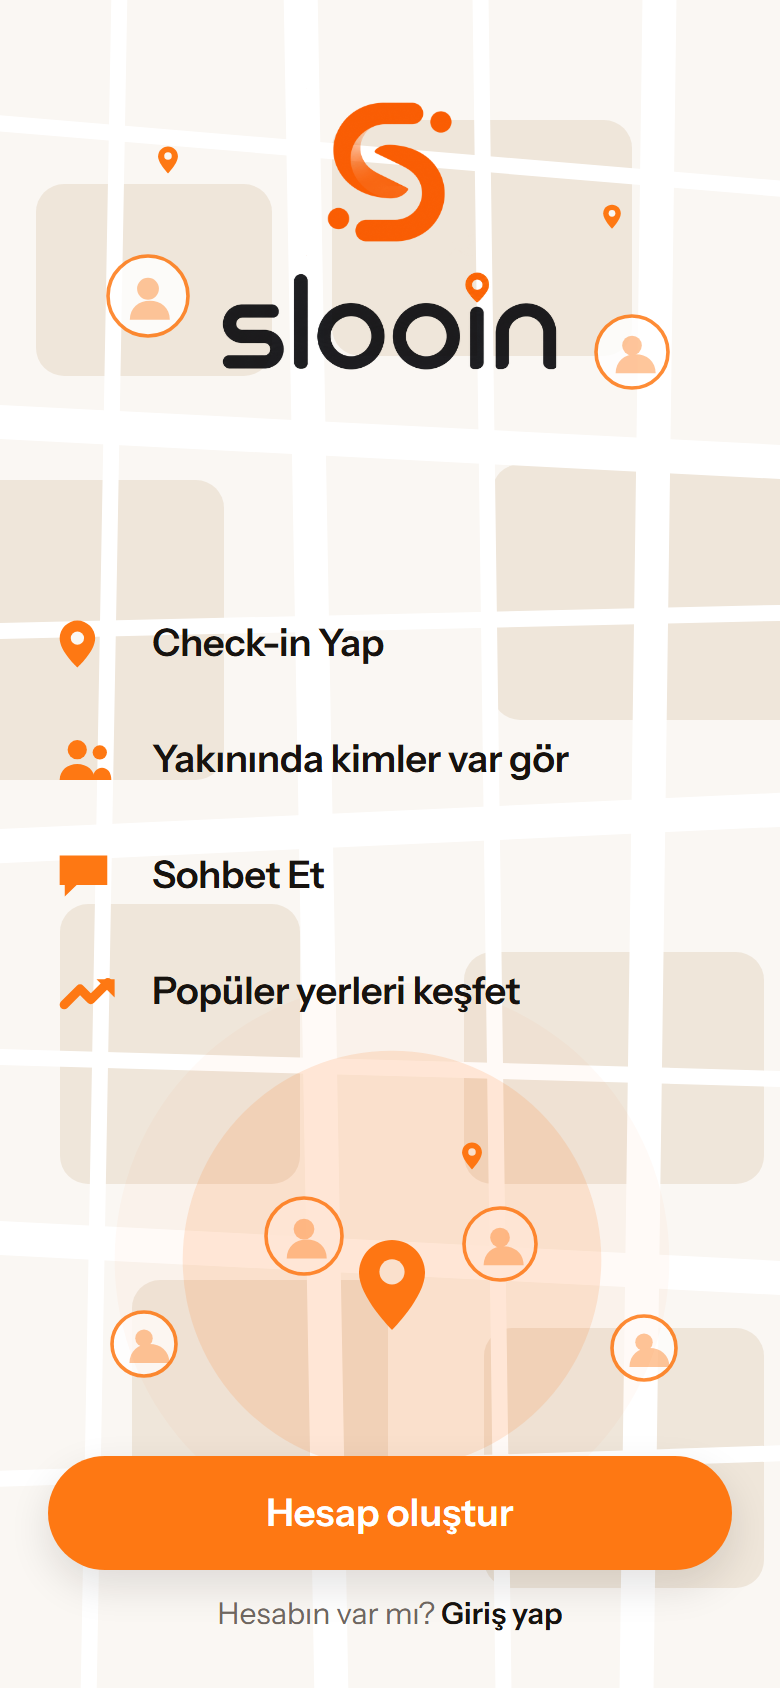
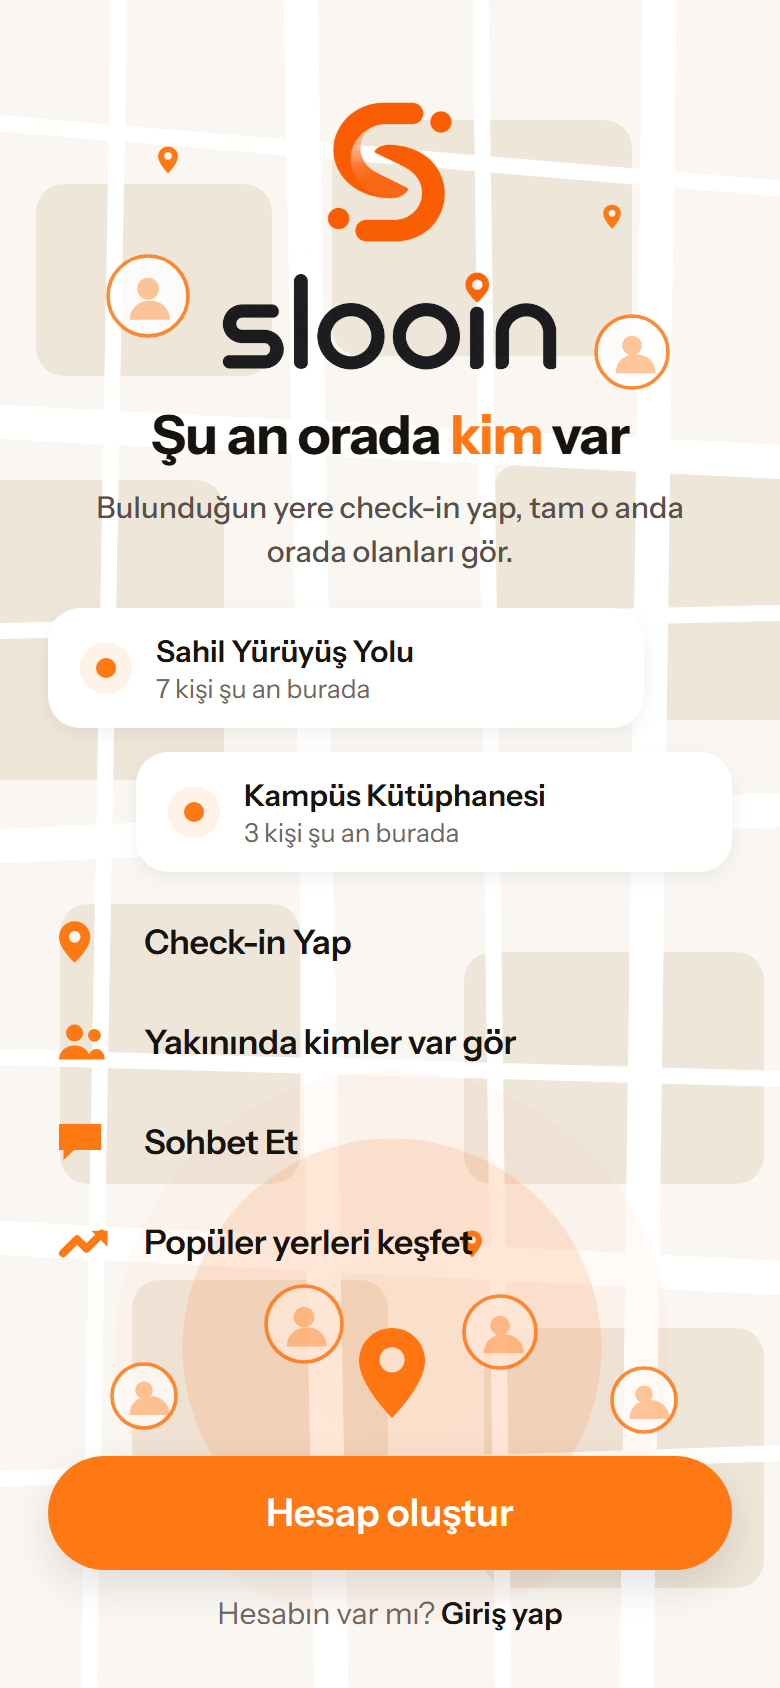
feat(tasarim): acilis ekranina slogan ve ornek check-in kartlari eklendi
Kullanici acilis ekraninin bos kaldigini soyledi; uc oneri uygulanip
gorsel olarak sunuldu, A + B secildi. Slogan metnini kullanici verdi:
"su an orada kim var".

- SLOGAN GERI GELDI. 2026-08-25'te kaldirilmisti, cunku o gun ozellik
  satirlarinin altinda aciklamalar duruyordu ve slogan onlarin
  soyledigini tekrar ediyordu. Aciklamalar 2026-08-26'da kalkinca
  ekranin ust yarisi bosaldi ve cumlenin yeri acildi.
- ORNEK CHECK-IN KARTLARI: haritanin uzerinde yuzen iki kart,
  turuncu canlilik noktasi + "7 kisi su an burada". Uygulamayi
  anlatmak yerine gosteriyor. Sayilar ve mekan adlari ORNEK - giris
  oncesi gercek veri gosterilemez, tr.ts'te de boyle notlandi.
- Tanitim satirlari kuculdu: baslik 19 -> 17, ikonlar 34 -> 30,
  ikon sutunu 40 -> 36 (kullanicinin istegi).
- KROKININ ALT KUMESI ASAGI ALINDI. Icerik uzayinca son satir
  ("Populer yerleri kesfet") krokideki insan ikonlarinin uzerine
  biniyor ve okunmuyordu. Nabiz merkezi 630 -> 674, alttaki dort
  ikon ~44 birim asagi; yandaki ikisi butonun altina girmesin diye
  698/700'de durduruldu.

Testler: ekran testleri 25 paket / 242 test yesil, tsc temiz.

Changed region(s): [[0.0615, 0.3389, 0.8923, 0.8626], [0.1231, 0.2464, 0.8615, 0.3389], [0.0615, 0.4929, 0.1538, 0.7393]]

diff --git a/mobil/src/app/(auth)/karsilama.tsx b/mobil/src/app/(auth)/karsilama.tsx
@@ -91,7 +91,7 @@ function OzellikIkonu({ ad }: { ad: 'konum' | 'kisiler' | 'sohbet' | 'yogunluk' 
   const donusum = `translate(${HIZA - olcek * sol} ${MERKEZ - olcek * merkez}) scale(${olcek})`
   return (
     <View style={stiller.ikonAlani}>
-      <Svg width={34} height={34} viewBox="0 0 24 24">
+      <Svg width={30} height={30} viewBox="0 0 24 24">
         <G transform={donusum}>
         {ad === 'konum' && (
           <>
@@ -169,9 +169,17 @@ export default function KarsilamaEkrani() {
         <MarkaIsareti zemin="acik" boyut={84} />
         <MarkaYazisi genislik={168} style={stiller.markaYazisi} />
 
-        {/* Slogan ve altindaki paragraf KALDIRILDI (kullanicinin karari,
-            2026-08-25). Uygulamayi anlatan tek yer asagidaki ozellik
-            listesi; slogan onun soyledigini bir kez daha soyluyordu. */}
+        {/* Slogan 2026-08-25'te kaldirilmisti, 2026-08-26'da GERI
+            GELDI: o gun aciklama satirlari da duruyordu ve slogan
+            onlarin soyledigini tekrar ediyordu. Aciklamalar kalkinca
+            ekranin ust yarisi bosaldi ve cumlenin yeri acildi.
+            Metni kullanici verdi: "su an orada kim var". */}
+        <Text style={stiller.vaat}>
+          {t('karsilama.vaatOnce')}
+          <Text style={stiller.vaatVurgu}>{t('karsilama.vaatVurgu')}</Text>
+          {t('karsilama.vaatSonra')}
+        </Text>
+        <Text style={stiller.vaatAlt}>{t('karsilama.vaatAlt')}</Text>
       </View>
 
       {/* Uygulamanin ne yaptigini anlatan tek yer: ikon + tek satirlik
@@ -180,6 +188,28 @@ export default function KarsilamaEkrani() {
           ORTALANDI - artik sola dayali bir liste degil, ortada duran
           dort satir. */}
       <View style={stiller.ustBosluk} />
+
+      {/* Uygulamayi ANLATMAK yerine GOSTEREN parca: haritanin uzerinde
+          yuzen iki ornek check-in karti. Sayilar ve mekan adlari ornek
+          - gercek veri gosterilemez, kullanici henuz giris yapmadi. */}
+      <View style={stiller.ornekKartlar}>
+        {[1, 2].map((n) => (
+          <View
+            key={n}
+            style={[stiller.ornekKart, n === 1 ? stiller.ornekKartSol : stiller.ornekKartSag]}
+          >
+            <View style={stiller.nabizHalka}>
+              <View style={stiller.nabizNokta} />
+            </View>
+            <View style={stiller.ornekMetin}>
+              <Text style={stiller.ornekAd}>{t(`karsilama.ornek${n}Ad`)}</Text>
+              <Text style={stiller.ornekAlt}>{t(`karsilama.ornek${n}Alt`)}</Text>
+            </View>
+          </View>
+        ))}
+      </View>
+
+      <View style={stiller.ortaBosluk} />
 
       <View style={stiller.adimlar}>
         {OZELLIKLER.map(({ no, ikon }) => (
@@ -227,6 +257,58 @@ const stiller = StyleSheet.create({
   },
 
   markaYazisi: { marginTop: bosluk.s },
+  vaat: {
+    fontFamily: yazi.ekranBasligi,
+    fontSize: 27,
+    lineHeight: 34,
+    color: renk.metin,
+    letterSpacing: -0.5,
+    textAlign: 'center',
+    marginTop: bosluk.l,
+  },
+  vaatVurgu: { color: renk.turuncu },
+  vaatAlt: {
+    fontFamily: yazi.govdeOrta,
+    fontSize: olcek.govde,
+    lineHeight: 22,
+    color: '#57504A',
+    textAlign: 'center',
+    marginTop: bosluk.s,
+    paddingHorizontal: bosluk.m,
+  },
+
+  ornekKartlar: { gap: bosluk.m },
+  ornekKart: {
+    flexDirection: 'row',
+    alignItems: 'center',
+    gap: bosluk.m,
+    backgroundColor: renk.yuzey,
+    borderRadius: yuvarlak.kart,
+    paddingVertical: bosluk.m,
+    paddingHorizontal: bosluk.l,
+    ...golge.kart,
+  },
+  // Kartlar birbirine gore kaydirilmis: harita uzerinde dizilmis degil,
+  // yuzuyor gibi dursunlar.
+  ornekKartSol: { marginRight: bosluk.xxl + bosluk.m },
+  ornekKartSag: { marginLeft: bosluk.xxl + bosluk.m },
+  ornekMetin: { flex: 1 },
+  nabizHalka: {
+    width: 26,
+    height: 26,
+    borderRadius: 13,
+    backgroundColor: renk.turuncuZemin,
+    alignItems: 'center',
+    justifyContent: 'center',
+  },
+  nabizNokta: { width: 10, height: 10, borderRadius: 5, backgroundColor: renk.turuncu },
+  ornekAd: { fontFamily: yazi.govdeKalin, fontSize: olcek.govde, color: renk.metin },
+  ornekAlt: {
+    fontFamily: yazi.govde,
+    fontSize: olcek.kucuk,
+    color: renk.metinIkincil,
+    marginTop: 1,
+  },
 
   adimlar: {
     // Blok, marka kilidi ile butonlarin ARASINA ortalaniyor: ustunde ve
@@ -238,7 +320,7 @@ const stiller = StyleSheet.create({
     // tuttugu sey kalmadi - dort kisa baslik ortada daha dengeli
     // duruyor.
     marginTop: 0,
-    gap: bosluk.xl,
+    gap: 20,
     // Blok en genis satiri kadar genis ve EKRANA ORTALI; satirlar
     // blogun icinde sola dayali. Kullanicinin karari (2026-08-26):
     // "basliklar onceki gibi orantili alt alta olmali". Her satiri tek
@@ -255,13 +337,14 @@ const stiller = StyleSheet.create({
   adim: { flexDirection: 'row', alignItems: 'center', gap: bosluk.m },
   // Sabit genislik: ikonlarin genisligi farkli, sutun bundan
   // kaymasin. Basliklar da bu yuzden ayni noktadan basliyor.
-  ikonAlani: { width: 40, alignItems: 'center', justifyContent: 'center' },
+  ikonAlani: { width: 36, alignItems: 'center', justifyContent: 'center' },
   adimBaslik: {
     // Bir kademe INCE (700 -> 600): kullanicinin istegi "cok az incelt
-    // ama yine belirgin olsun". Punto ve renk degismedi, yalnizca
-    // agirlik.
+    // ama yine belirgin olsun". Punto sonra ayrica bir tik kucultuldu
+    // (19 -> 17, "tanitim yazilarini biraz kucult"); ikonlar da 34 ->
+    // 30 ile birlikte indi ki oran bozulmasin.
     fontFamily: yazi.govdeKalin,
-    fontSize: olcek.altBaslik,
+    fontSize: 17,
     color: renk.metin,
     letterSpacing: -0.2,
   },
@@ -288,8 +371,12 @@ const stiller = StyleSheet.create({
   // Blok ortadan biraz YUKARIDA duruyor (kullanicinin karari
   // 2026-08-26: "biraz yukariya"). Ustteki bosluk alttakinden kucuk;
   // 1 / 1 tam ortaliyordu.
-  ustBosluk: { flex: 0.75 },
-  esnekBosluk: { flex: 1.25 },
+  // Icerik krokinin ALT KALABALIGINA duesmemeli: haritanin dibindeki
+  // insan baloncuklari ve nabiz halkasi metnin altina girip okumayi
+  // bozuyor. Bu yuzden ust bosluklar kucuk, alt bosluk buyuk.
+  ustBosluk: { flex: 0.3 },
+  ortaBosluk: { flex: 0.35 },
+  esnekBosluk: { flex: 1.35 },
   tik: { color: '#FFFFFF', fontSize: 14, lineHeight: 18, fontFamily: yazi.govdeKalin },
 
   birincil: {

diff --git a/mobil/src/tasarim/KrokiZemin.tsx b/mobil/src/tasarim/KrokiZemin.tsx
@@ -32,7 +32,11 @@ const BOY = 844
 /** Halkalarin ve ignenin merkezi - icerigin bos seridi. */
 // Nabiz, tanitim blogunun BITTIGI nokta ile 'Hesap olustur' butonunun
 // ortasinda duruyor (kullanicinin istegi 2026-08-25).
-const MERKEZ = { x: 196, y: 630 }
+// Nabzin merkezi. 2026-08-26'da 630'dan 674'e INDIRILDI: acilis
+// ekranina slogan ve ornek check-in kartlari eklenince ozellik
+// listesi asagi kaydi ve son satir ("Populer yerleri kesfet") alttaki
+// insan ikonlarinin uzerine biniyordu.
+const MERKEZ = { x: 196, y: 674 }
 
 /**
  * Insan ikonlari. Konumlar rastgele degil: hicbiri metnin uzerine
@@ -47,10 +51,13 @@ const KISILER = [
   // Alt bant: nabzin cevresi, yatayda esit araliklarla. Ustteki ikisi
   // once daha yukaridaydi ve son ozellik satirinin uzerine biniyordu;
   // asagi cekildi. Butonun altina denk gelen ikon da kaldirildi.
-  { x: 152, y: 618, r: 19 },
-  { x: 250, y: 622, r: 18 },
-  { x: 72, y: 672, r: 16 },
-  { x: 322, y: 674, r: 16 },
+  // Dordu de 2026-08-26'da ~44 birim asagi alindi; gerekcesi MERKEZ
+  // tanimindaki notta.
+  { x: 152, y: 662, r: 19 },
+  { x: 250, y: 666, r: 18 },
+  // Yandaki ikisi butonun altina girmesin diye 698/700'de duruyor.
+  { x: 72, y: 698, r: 16 },
+  { x: 322, y: 700, r: 16 },
 ]
 
 // Kenar payi: 'slice' olceklemesinde tuvalin yanlari kirpilabiliyor.
@@ -61,7 +68,7 @@ const KISILER = [
 const IGNELER = [
   { x: 84, y: 84, olcek: 0.45 },
   { x: 306, y: 112, olcek: 0.4 },
-  { x: 236, y: 582, olcek: 0.45 },
+  { x: 236, y: 626, olcek: 0.45 },
 ]
 
 const HALKA_SURESI = 2800

diff --git a/mobil/lib/ceviriler/tr.ts b/mobil/lib/ceviriler/tr.ts
@@ -25,6 +25,22 @@ export default {
     aciklama:
       'Bulunduğun yere check-in yap, tam o anda orada olan başka insanları gör. Konum paylaşımı check-in yaptığın süreyle sınırlı.',
     dilEtiket: 'Dil',
+
+    // Slogan UC PARCA: ortadaki kelime turuncu yaziliyor. Ceviride
+    // parcalarin sirasi korunmali; vurgulu kelime dilin dogal
+    // vurgusuna gore degisebilir.
+    vaatOnce: 'Şu an orada ',
+    vaatVurgu: 'kim',
+    vaatSonra: ' var',
+    vaatAlt: 'Bulunduğun yere check-in yap, tam o anda orada olanları gör.',
+
+    // Acilistaki ornek check-in kartlari. GERCEK VERI DEGIL: kullanici
+    // henuz giris yapmamis ve kimin nerede oldugu giris oncesi
+    // gosterilemez. Mekan adlari da bilerek jenerik.
+    ornek1Ad: 'Sahil Yürüyüş Yolu',
+    ornek1Alt: '7 kişi şu an burada',
+    ornek2Ad: 'Kampüs Kütüphanesi',
+    ornek2Alt: '3 kişi şu an burada',
     // Dort ozellik, YALNIZCA BASLIK. Basliklarin altindaki aciklama
     // satirlari kullanicinin karariyla kaldirildi (2026-08-26): baslik
     // zaten ne oldugunu soyluyordu, aciklama ayni seyi tekrar ediyordu.
